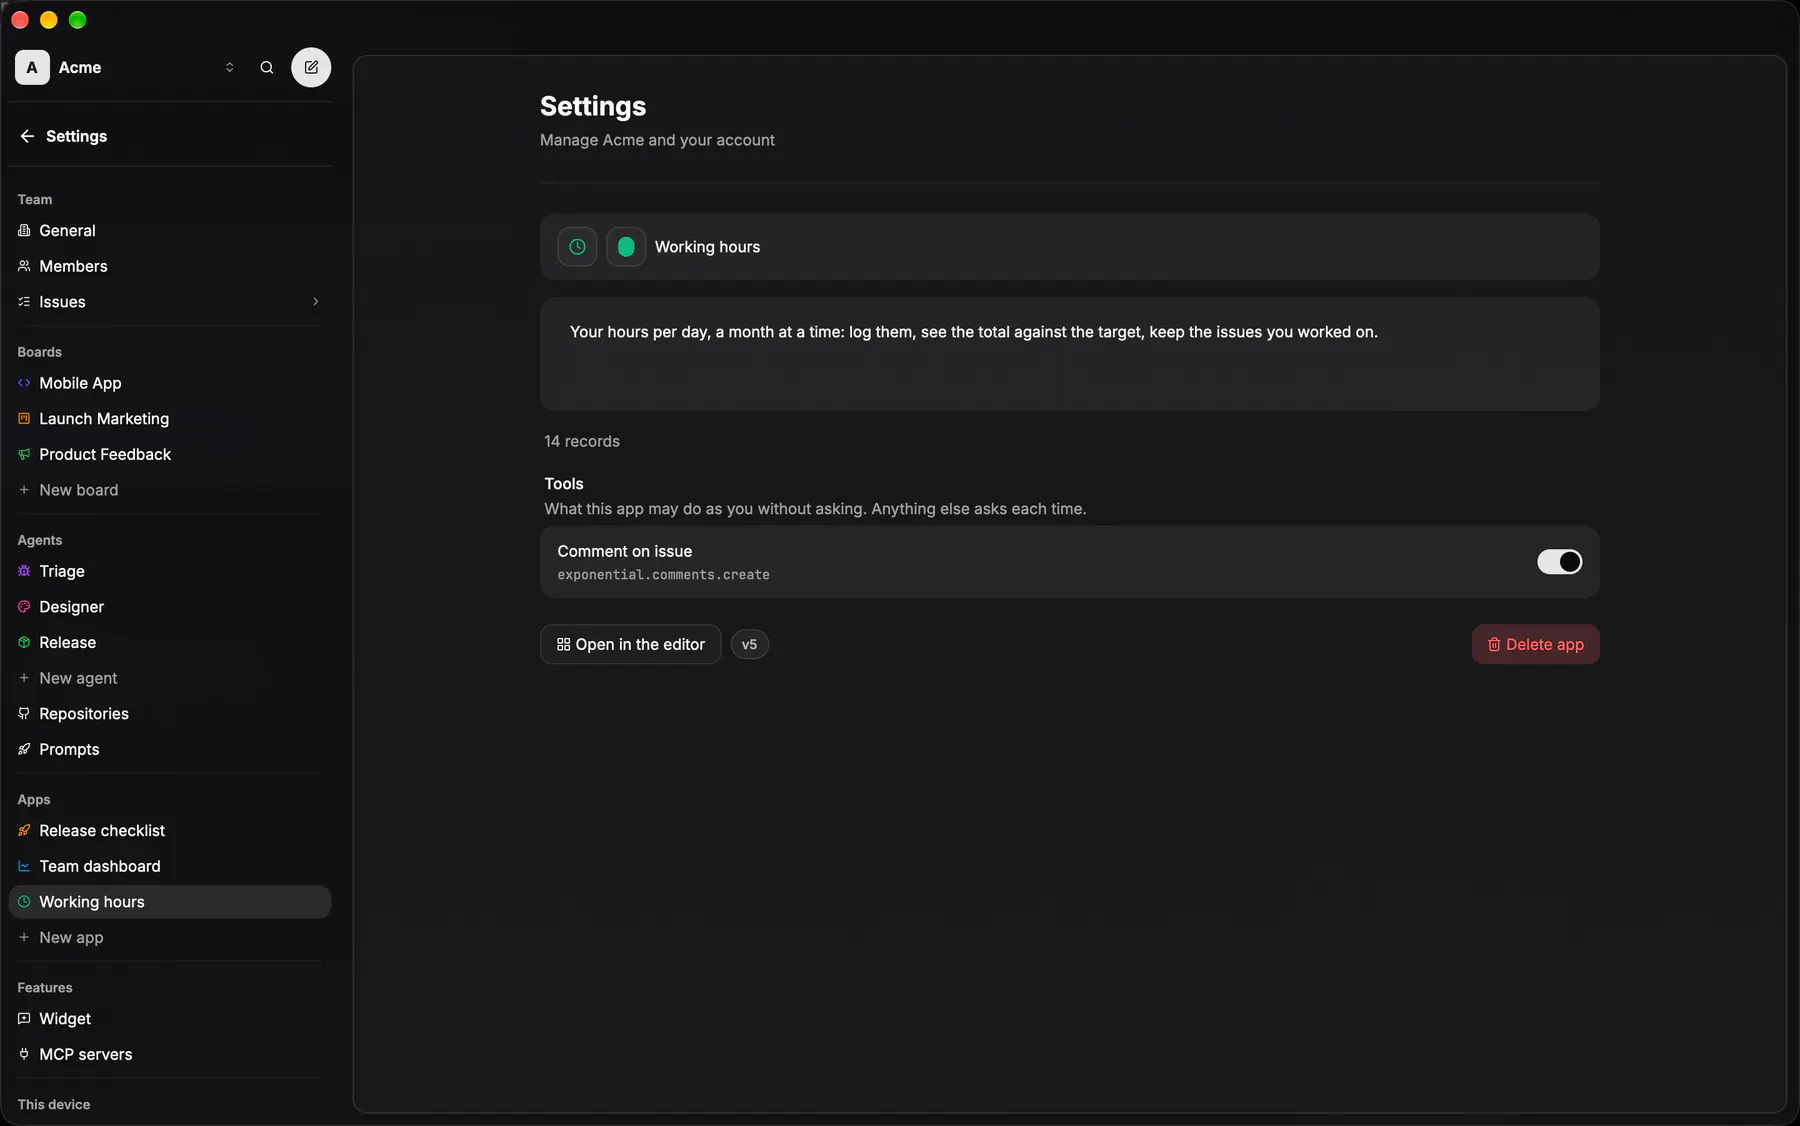
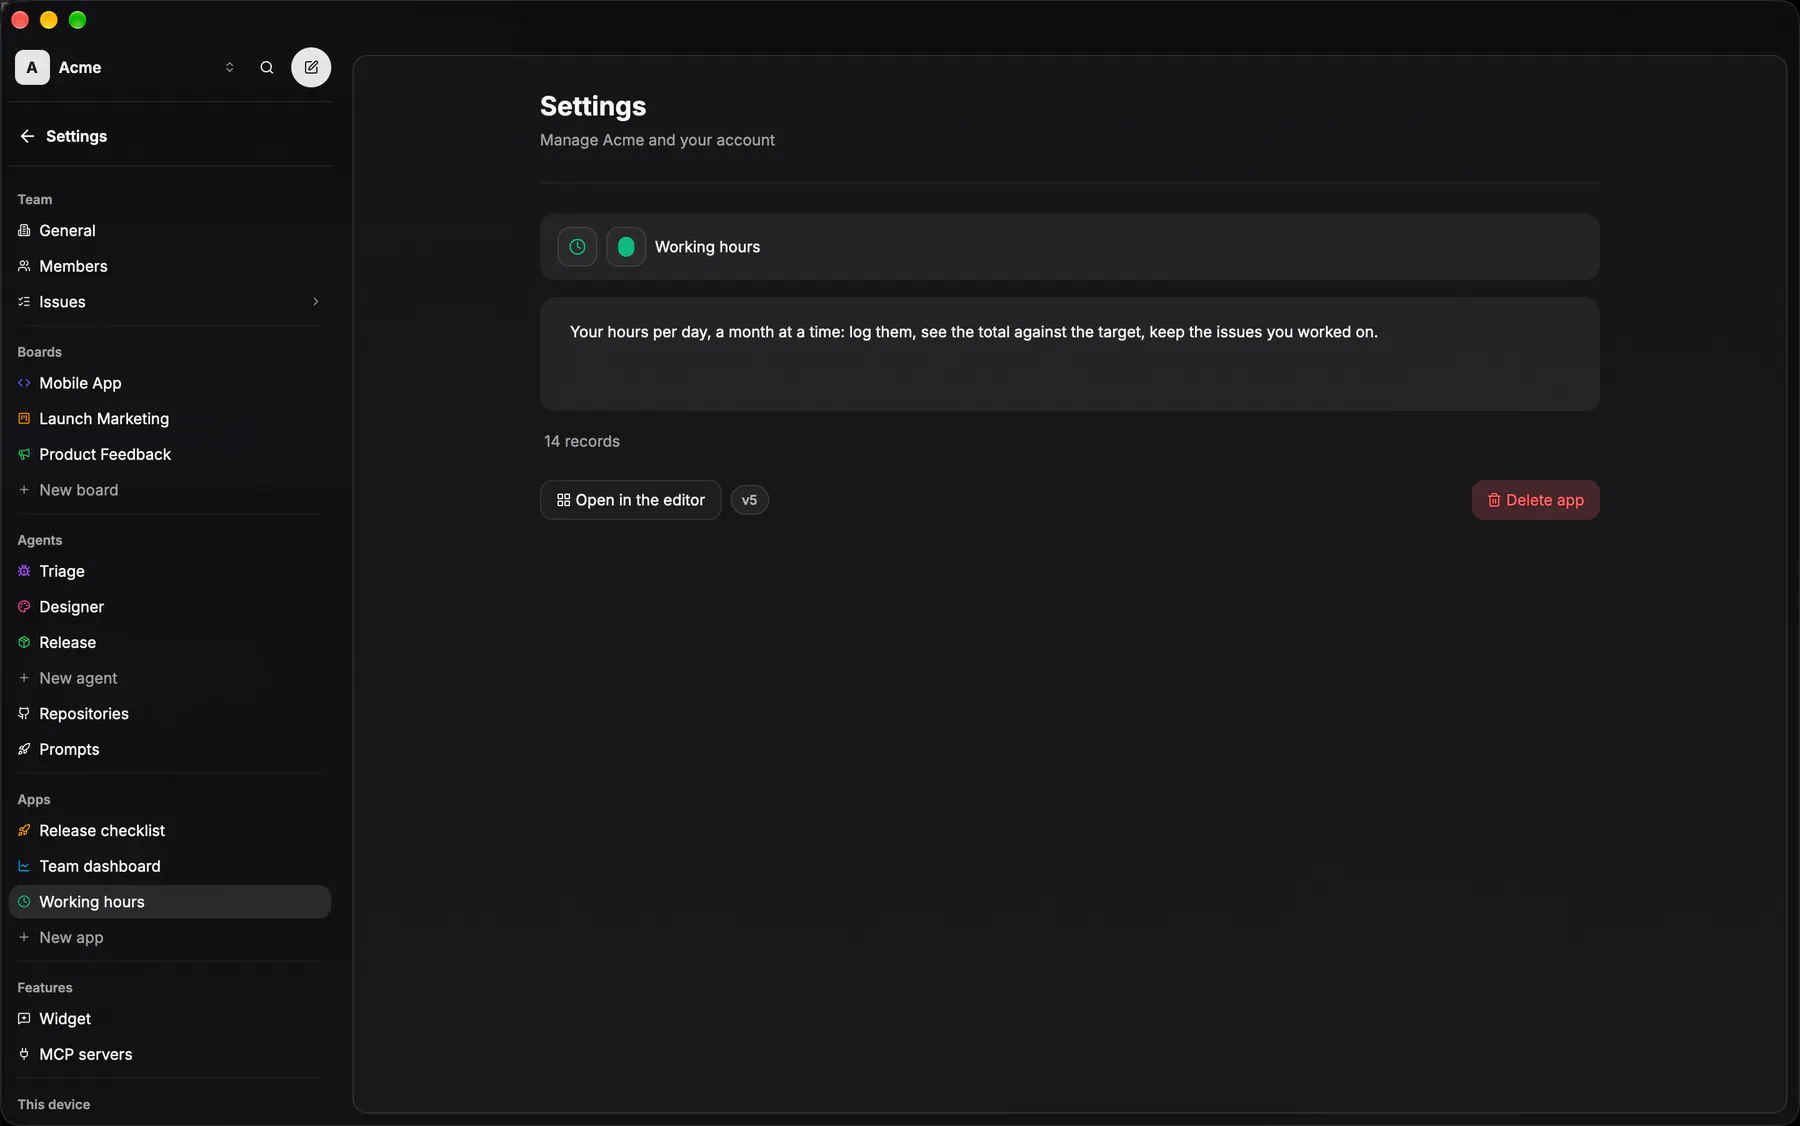
VAPP-120 WIP: the phones picture the consent card (app-consent view), the seed grants nothing

Changed region(s): [[0.3111, 0.4041, 0.5911, 0.5284], [0.8089, 0.4041, 0.9022, 0.5906], [0.3111, 0.5595, 0.4356, 0.5906]]

diff --git a/apps/ios/ExponentialUITests/StyleguideScreenshots.swift b/apps/ios/ExponentialUITests/StyleguideScreenshots.swift
@@ -992,6 +992,26 @@ final class StyleguideScreenshots: XCTestCase {
             "The \(Self.appName) editor never drew its preview"
         )
         snapshot("sg_app", settle: 3)
+        // ── sg_app-consent (VAPP-120): the docs, admin entry (linked to
+        // APP-15) opens the Log hours dialog; Post to the issue calls the
+        // typed action exponential.comments.create, which nobody granted, so
+        // the host raises the consent card with the operation's own words.
+        // Deny closes it and the dialog; the shot is gated like sg_app.
+        if ScreenshotShots.isWanted("sg_app-consent") {
+            // The painter folds a pressable Row's leaves into ONE accessible
+            // name ("docs, admin, 2026-10-21, 8 h"), so match by fragment.
+            let entry = anyElement(app, containing: "docs, admin")
+            expect(entry, within: Wait.sync, "The Working hours preview has no docs, admin entry — reseed with `bun run seed:screenshots`")
+            entry.tap()
+            let post = anyElement(app, containing: "Post to the issue")
+            expect(post, within: Wait.nav, "The Log hours dialog has no Post to the issue button (the entry's issues did not bind)")
+            post.tap()
+            expect(anyElement(app, identified: "exponential-ui-consent-arguments"), within: Wait.nav, "Post to the issue raised no consent card")
+            snapshot("sg_app-consent", settle: 2)
+            let deny = anyElement(app, identified: "glass-alert-deny")
+            if deny.waitForExistence(timeout: Wait.nav) { deny.tap() }
+            settle(1)
+        }
         goBack(app)
         goBack(app)
         settle(1)

diff --git a/apps/android/app/src/androidTest/java/com/exponential/app/StyleguideScreenshotsTest.kt b/apps/android/app/src/androidTest/java/com/exponential/app/StyleguideScreenshotsTest.kt
@@ -772,6 +772,24 @@ class StyleguideScreenshotsTest {
         flow.waitFor(hasTestTag(Apps.TestIds.PREVIEW), SYNC_TIMEOUT)
         flow.settle(longer = true)
         flow.screenshot("sg_app")
+        // --- sg_app-consent (VAPP-120): the docs, admin entry (linked to
+        // APP-15) opens the Log hours dialog; Post to the issue calls the typed
+        // action exponential.comments.create, which nobody granted, so the
+        // host raises the consent card with the operation's own words. Deny
+        // closes it; the walk is gated like the shot.
+        if (ScreenshotFlow.anyRequested("sg_app-consent")) {
+            val entry = hasText("docs, admin")
+            flow.waitFor(entry, SYNC_TIMEOUT)
+            composeRule.onAllNodes(entry).onFirst().performClick()
+            val post = hasText("Post to the issue")
+            flow.waitFor(post, NAV_TIMEOUT)
+            composeRule.onAllNodes(post).onFirst().performClick()
+            flow.waitFor(hasTestTag("exponential-ui-consent-arguments"), NAV_TIMEOUT)
+            flow.settle()
+            flow.screenshot("sg_app-consent")
+            composeRule.onNode(hasTestTag("exponential-ui-consent-deny")).performClick()
+            flow.settle()
+        }
         Espresso.pressBack()
         flow.waitFor(hasTestTag(Apps.TestIds.LIST), NAV_TIMEOUT)
         Espresso.pressBack()

diff --git a/apps/web/scripts/seed-screenshots.ts b/apps/web/scripts/seed-screenshots.ts
@@ -826,8 +826,10 @@ async function seedSessionTree(ctx: {
       description: `Your hours per day, a month at a time: log them, see the total against the target, keep the issues you worked on.`,
       package: hoursPackage(`1.4.0`),
       headVersion: 5,
-      // VAPP-120: the person granted the one typed action the app declares.
-      grantedTools: [`exponential.comments.create`],
+      // VAPP-120: nothing granted yet: "Post to the issue" asks with the
+      // operation's words on every platform (the consent card shots); the
+      // settings page shows the declared action with its switch off.
+      grantedTools: [],
       createdBy: demoId,
       createdAt: daysAgo(6),
       updatedAt: DEMO_APP_CHAT_TIMES.fifth,
